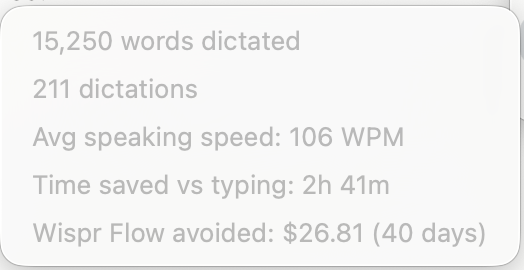
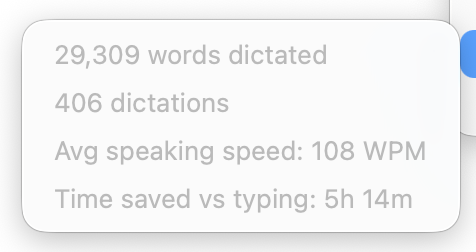
Retake the stats panel screenshot and sync the README totals to it

Changed region(s): [[0.0, 0.0, 1.0, 1.0], [0.0294, 0.0, 0.9118, 0.0278], [0.0, 0.0278, 0.0294, 0.0833]]

diff --git a/README.md b/README.md
@@ -18,7 +18,7 @@ The entire interface. 🎤 idle, 🔴 recording, ⏳ transcribing, back to 🎤.
 - Tap Right Command to paste the last result again.
 - Tracks words, dictations, and speaking speed over time.
 
-In daily use since July 2026. As of 2026-09-19: **396 dictations, 29,029 words, 4.5 hours of audio.**
+In daily use since July 2026. As of 2026-09-19: **406 dictations, 29,309 words, 4.5 hours of audio.**
 
 ## Why I built this
 
